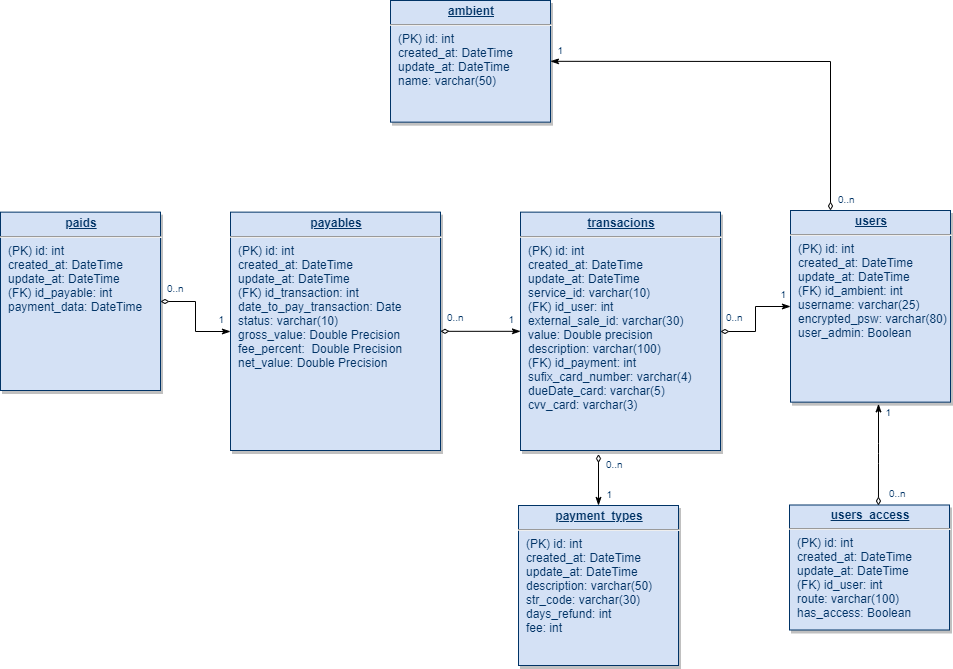
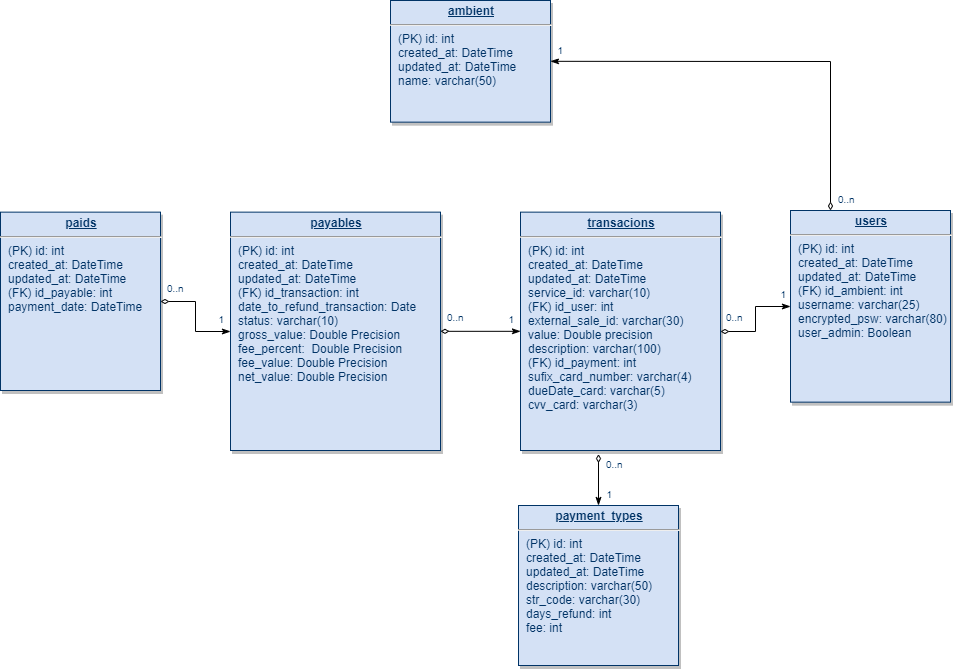
- Adicionado JWT e restrição nas rotas. - Criado rota para /authenticate e conseguir TOKEN - Removido migration users-access. Não faz mais sentido. - Mais alguns ajustes

diff --git a/src/controllers/controllerUser.js b/src/controllers/controllerUser.js
@@ -1,0 +1,88 @@
+import user from "../models/User";
+import { prepareSuccess } from "../utils/responses_struct";
+import md5 from "md5";
+import authService from "../services/auth-service";
+
+class ControllerUser {
+  findAll = async (req, res) => {
+    const finds = await user.findAll();
+
+    const result = prepareSuccess(finds);
+    res.json(result);
+  };
+
+  findOne = async (req, res) => {
+    const query = req.query.id;
+    const params = req.params.id;
+
+    const find = await user.findOne({
+      where: {
+        id: query || params
+      }
+    });
+
+    const result = prepareSuccess(find);
+    res.json(result);
+  };
+
+  create = async (req, res) => {
+    const { username, password, user_admin, ambient_name } = req.body;
+
+    let find = await user.findAll({
+      where: {
+        username: username
+      }
+    });
+
+    if (find.length) {
+      res.status(400).json({
+        status: 400,
+        message: "Usuário já existe."
+      });
+      return;
+    }
+
+    const inserted = await user.create({
+      username: username,
+      encrypted_psw: password,
+      user_admin: user_admin,
+      ambient_name: ambient_name
+    });
+
+    const result = prepareSuccess(inserted);
+
+    res.json(result);
+  };
+
+  authenticate = async (req, res) => {
+    const { username, password } = req.body;
+    const find = await user.findOne({
+      where: {
+        username: username,
+        encrypted_psw: password //md5(password + global.SALT_KEY)
+      }
+    });
+
+    if (!find || find.length) {
+      res.status(400).json({
+        status: 401,
+        message: "Usuário ou Senha inválidos."
+      });
+      return;
+    }
+
+    const token = await authService.generateToken({
+      username: username,
+      user_admin: find.user_admin
+    });
+
+    const result = prepareSuccess({
+      token: token,
+      username: username
+    });
+
+    res.json(result);
+  };
+}
+
+export default new ControllerUser();

diff --git a/src/services/auth-service.js b/src/services/auth-service.js
@@ -1,0 +1,41 @@
+"use strict";
+import jwt from "jsonwebtoken";
+
+exports.generateToken = async data => {
+  return jwt.sign(data, global.SALT_KEY, { expiresIn: "1d" });
+};
+
+exports.decodeToken = async token => {
+  var data = await jwt.verify(token, global.SALT_KEY);
+  return data;
+};
+
+exports.authorize = async (req, res, next) => {
+  await processAuthorize(req, res, next, false);
+};
+
+exports.authorizeOnlyAdmin = async (req, res, next) => {
+  await processAuthorize(req, res, next, true);
+};
+
+const processAuthorize = async (req, res, next, onlyAdmin) => {
+  var token =
+    req.body.token || req.query.token || req.headers["x-access-token"];
+
+  if (!token) {
+    res.status(401).json({ status: 401, message: "Acesso Restrito." });
+  } else {
+    jwt.verify(token, global.SALT_KEY, function(error, decoded) {
+      if (error) {
+        res.status(401).json({ status: 401, message: "Token inválido." });
+      } else {
+        if (onlyAdmin && !decoded.user_admin) {
+          res.status(401).json({ status: 401, message: "Acesso Restrito[2]." });
+          return;
+        }
+
+        next();
+      }
+    });
+  }
+};

diff --git a/src/routes/routesAmbients.js b/src/routes/routesAmbients.js
@@ -3,10 +3,11 @@
 import { Router } from "express";
 import ControllerAmbient from "../controllers/controllerAmbient";
 import { throwError } from "../utils/responses_struct";
+import authService from "../services/auth-service";
 
 const routes = Router();
 
-routes.get("/", async (req, res) => {
+routes.get("/", authService.authorizeOnlyAdmin, async (req, res, next) => {
   try {
     await ControllerAmbient.findAll(req, res);
   } catch (err) {
@@ -14,7 +15,7 @@ routes.get("/", async (req, res) => {
   }
 });
 
-routes.get("/:id?", async (req, res) => {
+routes.get("/:id?", authService.authorizeOnlyAdmin, async (req, res, next) => {
   try {
     await ControllerAmbient.findOne(req, res);
   } catch (err) {
@@ -22,7 +23,7 @@ routes.get("/:id?", async (req, res) => {
   }
 });
 
-routes.post("/", async (req, res) => {
+routes.post("/", authService.authorizeOnlyAdmin, async (req, res, next) => {
   try {
     await ControllerAmbient.create(req, res);
   } catch (err) {

diff --git a/src/routes/routesUsers.js b/src/routes/routesUsers.js
@@ -1,11 +1,18 @@
 // ## USERS ## //
 
 import { Router } from "express";
+import ControllerUser from "../controllers/controllerUser";
+import { throwError } from "../utils/responses_struct";
+import authService from "../services/auth-service";
 
 const routes = Router();
 
-routes.get("/", async (req, res) => {
-  res.send("Users GET");
+routes.get("/authenticate", async (req, res, next) => {
+  try {
+    await ControllerUser.authenticate(req, res, next);
+  } catch (err) {
+    throwError(res, err);
+  }
 });
 
 export default routes;

diff --git a/src/app.js b/src/app.js
@@ -2,6 +2,7 @@ import express from "express";
 import cors from "cors";
 import variables from "dotenv";
 
+global.SALT_KEY = "f6c845142-6542-4cA3-90f3-65e87e6761ec";
 const vars = variables.config({
   path: ".env"
 });
@@ -19,7 +20,6 @@ class AppController {
   }
 
   routes() {
-    // importa o arquivo principal das rotas
     import routes from "./routes/index";
     this.express.use(routes);
   }

diff --git a/src/controllers/controllerAmbient.js b/src/controllers/controllerAmbient.js
@@ -13,13 +13,13 @@ class ControllerAmbient {
     const query = req.query.id;
     const params = req.params.id;
 
-    const finds = await ambient.findOne({
+    const find = await ambient.findOne({
       where: {
         id: query || params
       }
     });
 
-    const result = prepareSuccess(finds);
+    const result = prepareSuccess(find);
     res.json(result);
   };
 

diff --git a/src/models/User.js b/src/models/User.js
@@ -16,10 +16,6 @@ class user extends Model {
       }
     );
   }
-
-  static associate(models) {
-    this.belongsTo(models.Ambient, { foreignKey: id_ambient, as: "ambient" });
-  }
 }
 
 export default user;
